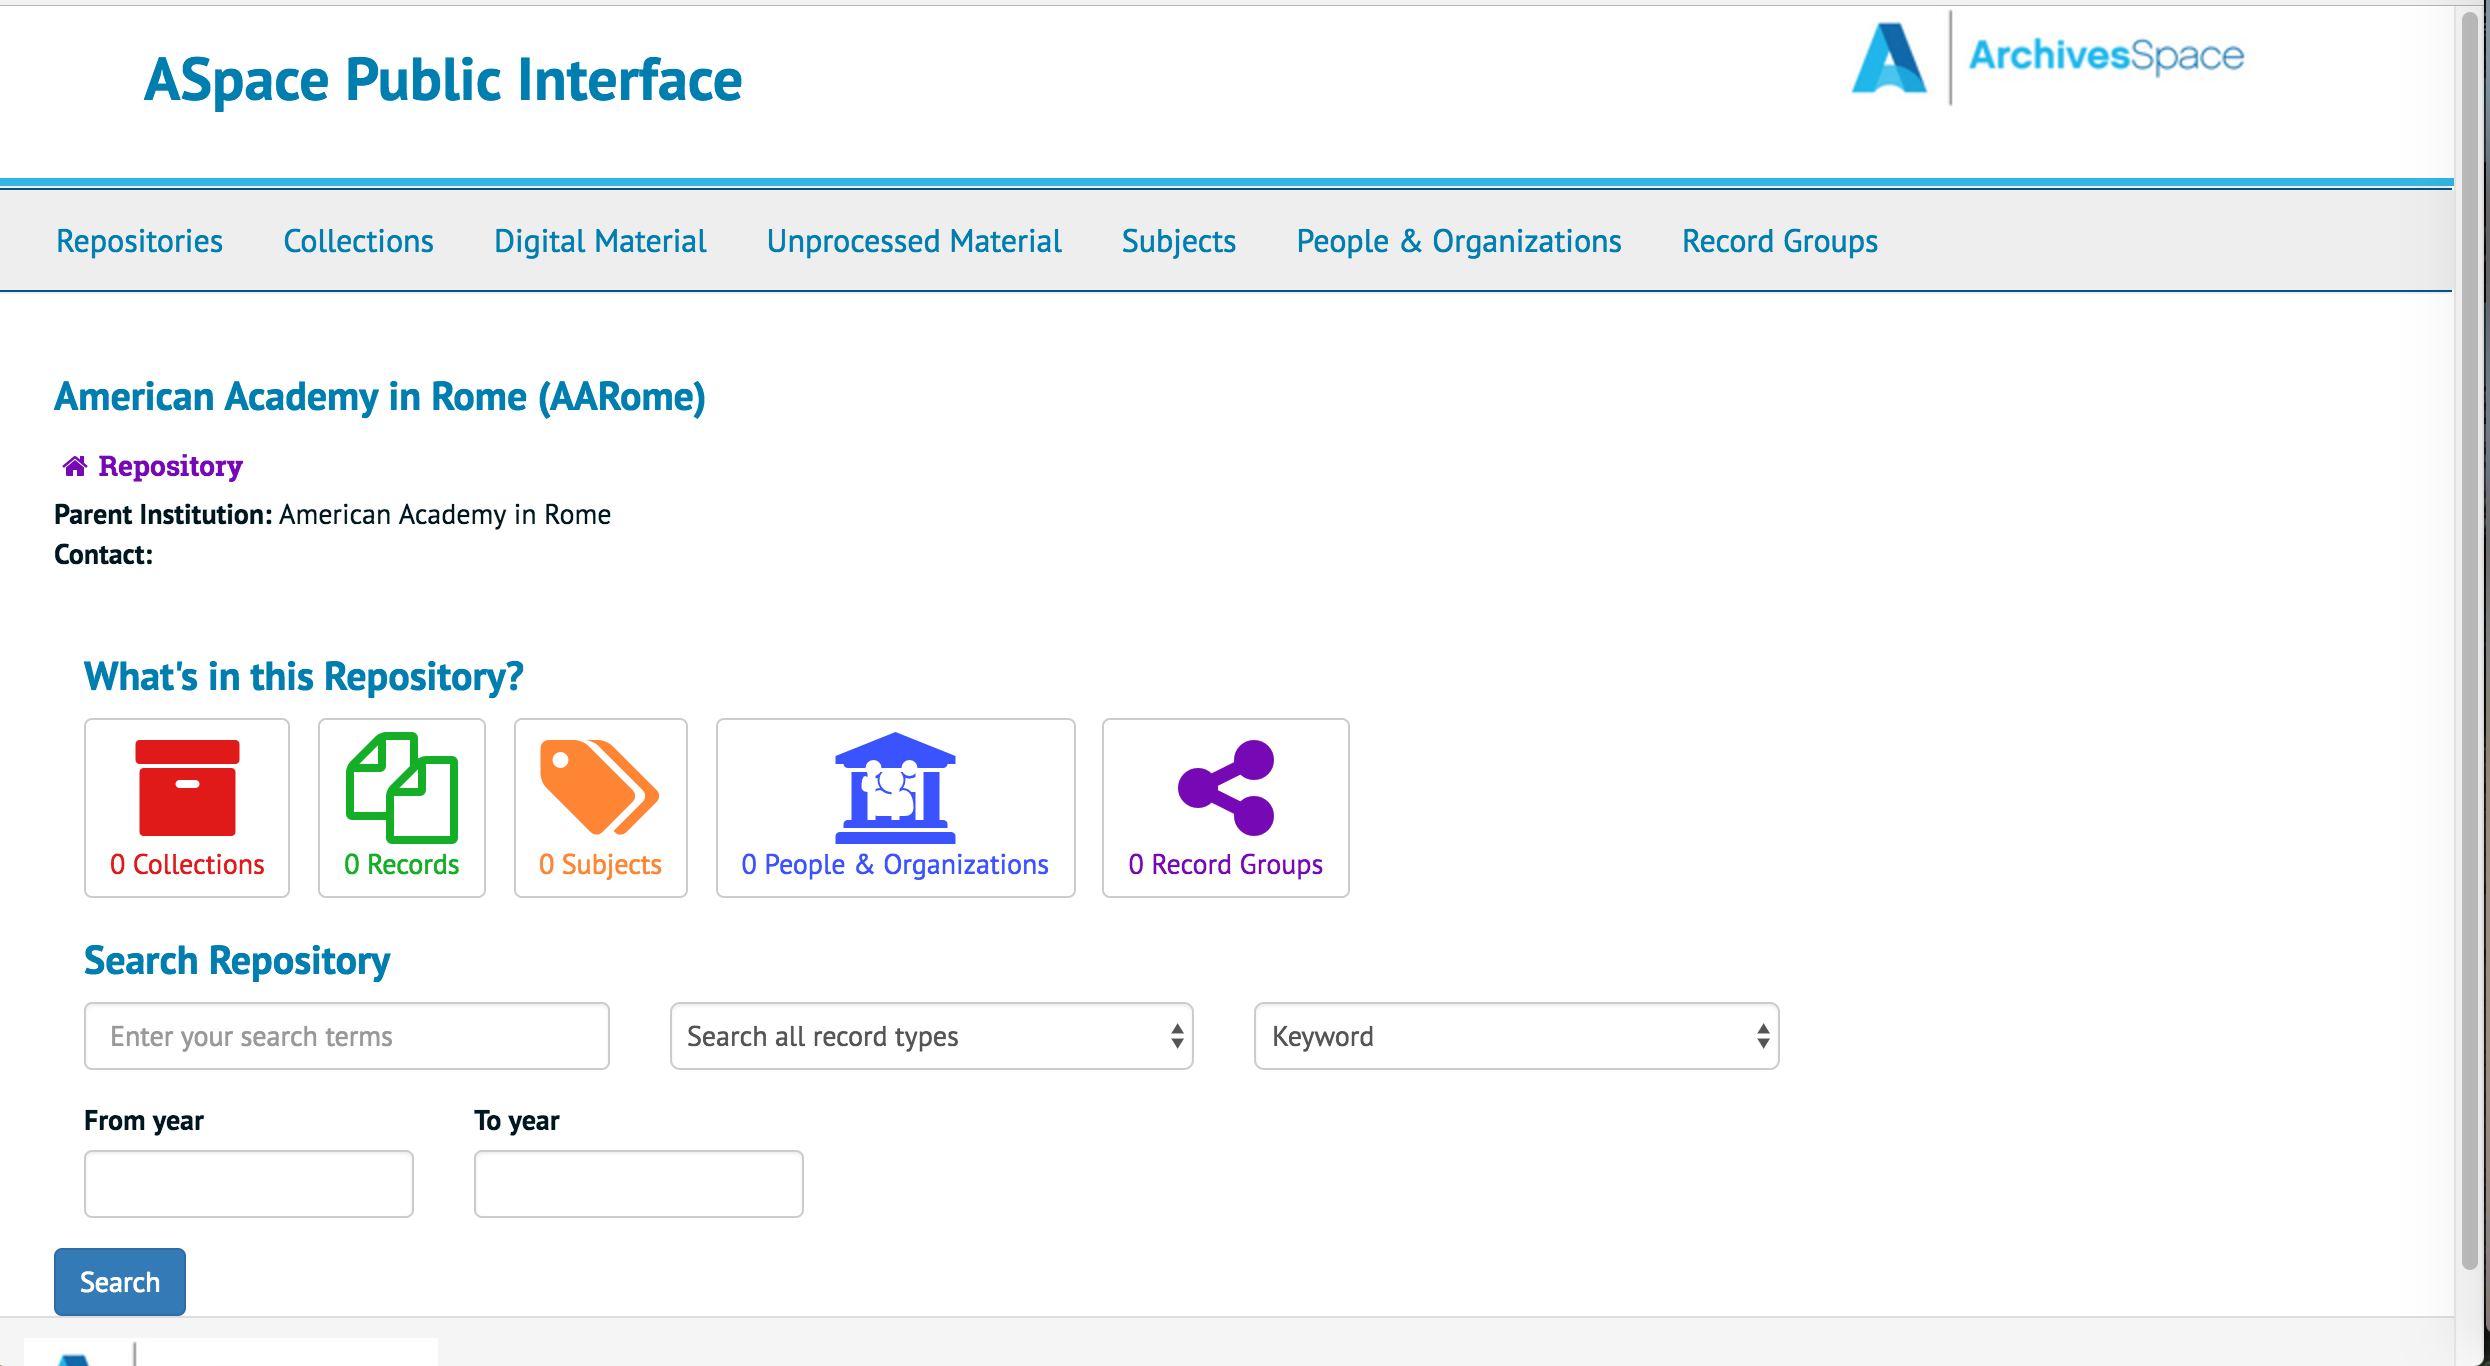
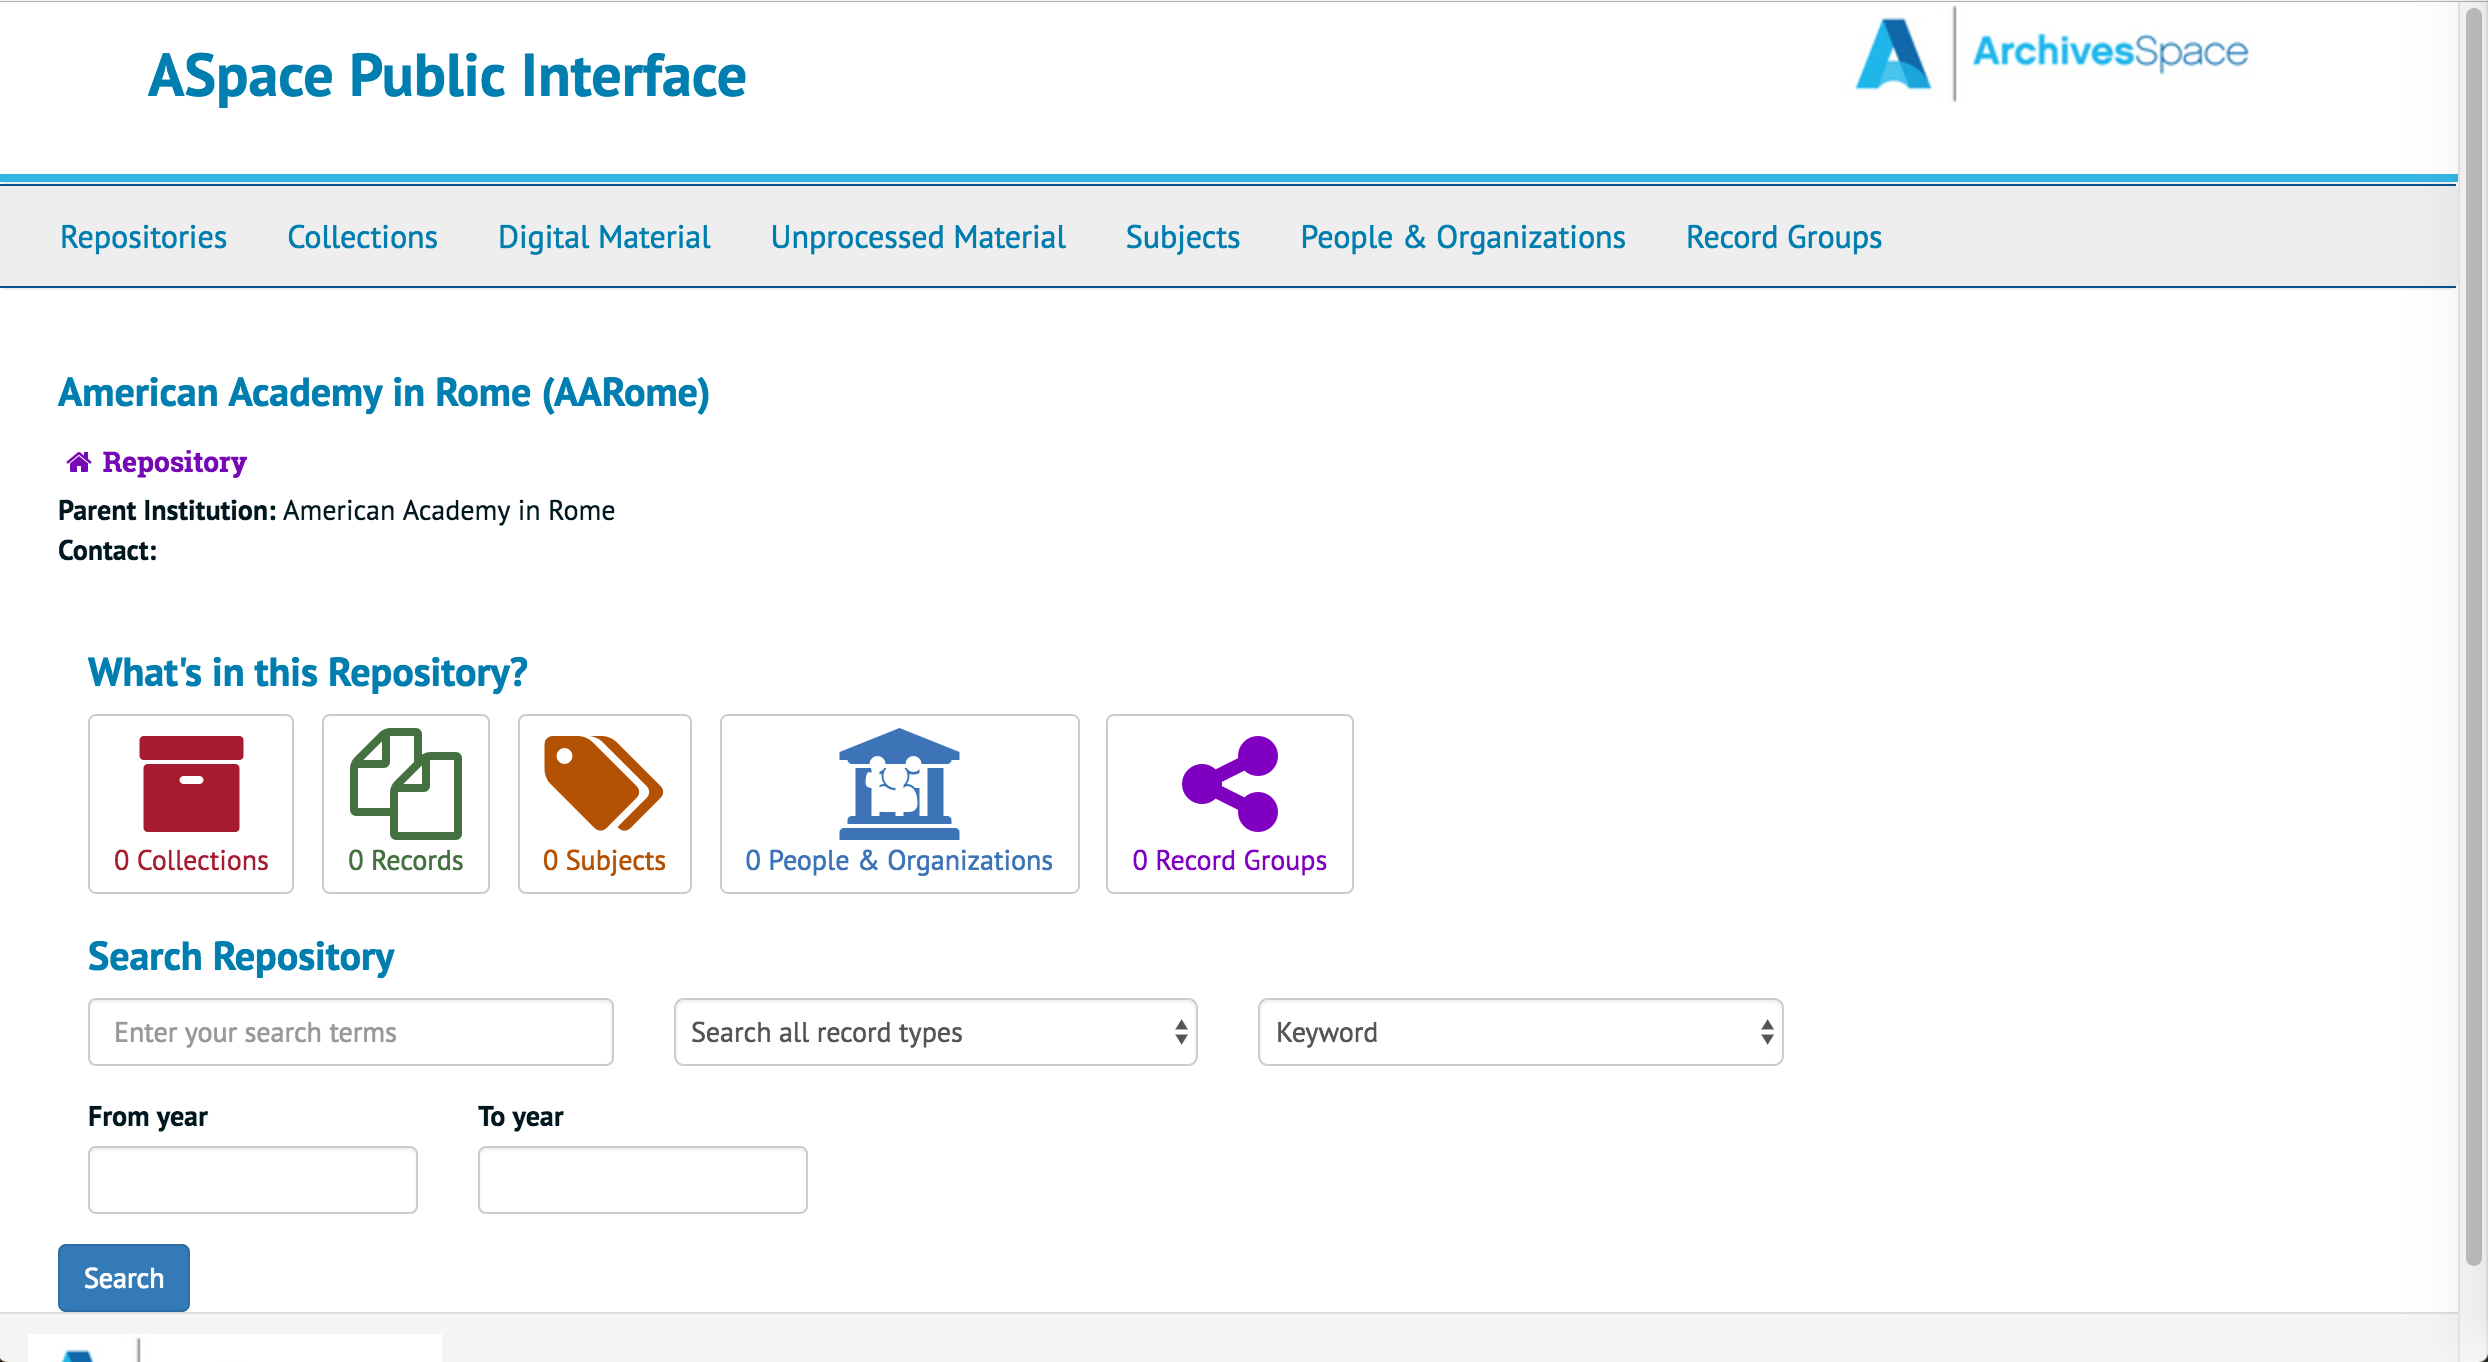
archivesSpace_badge_color_1, screen capture and UI code of proposed interface

diff --git a/evaluation/ArchivesSpace/archivesSpace_badge_color_1/index.html b/evaluation/ArchivesSpace/archivesSpace_badge_color_1/index.html
@@ -1,13 +1,15 @@
+<!-- All the proposed colors where tested on 
+	   http://webaim.org/resources/contrastchecker/ 
+	   to ensure sufficient contrast -->
 
-
-
-
-
+<!-- 5 UI comments were added to this code -->
 
 <div id="whats-in-container row">
     <h3>What's in this Repository? </h3>
     <div>
       <ul class="list-inline">
+
+<!-- UI comment #1 - change color of "resource" class from e01919 to A51C30 -->
 	<li class="large-badge align-center resource">
 	  <form id="coll_sub" action="/repositories/12/resources" method="post">
 	    <input type="hidden" name="repo" id="repo_res" value="American Academy in Rome">
@@ -17,6 +19,8 @@
 	    </button>
 	  </form>
 	</li>
+
+<!-- UI comment #2 - change color of "record" class from 14af26 to 457141 -->
 	<li class="large-badge align-center record">
 	  <form id="arch_sub" action="/repositories/12/objects" method="post">
 	    <input type="hidden" name="repo" id="repo_obj" value="American Academy in Rome">
@@ -26,6 +30,9 @@
 	    </button>
 	  </form>
 	</li>
+
+<!-- UI comment #3 - change color of "button.subject" class from fe8534 
+	   to b45203 -->
 	<li class="large-badge align-center subject">
 	  <form id="subj_sub" action="/repositories/12/subjects" method="post">
 	    <input type="hidden" name="repo" id="repo_subj" value="American Academy in Rome">
@@ -36,6 +43,8 @@
 	    </button>
 	  </form>
  	</li>
+
+<!-- UI comment #4 - change color of "agent" class from 3b52ff to 3d74b7 -->
 	<li class="large-badge align-center agent">
 	  <form id="ag_sub" action="/repositories/12/agents" method="post">
 	    <input type="hidden" name="repo" id="repo_ag" value="American Academy in Rome">
@@ -49,6 +58,9 @@
 	    </button>
 	  </form>
 	</li>
+
+<!-- UI comment #5 - change color of "classification" class from 7608b5 
+	   to 8000c1 -->
         <li class="large-badge align-center classification">
           <form id="group_sub" action="/repositories/12/groups" method="post">
             <input type="hidden" name="repo" id="repo_group" value="American Academy in Rome">
@@ -64,4 +76,3 @@
     </div>
     
   </div>
-  
